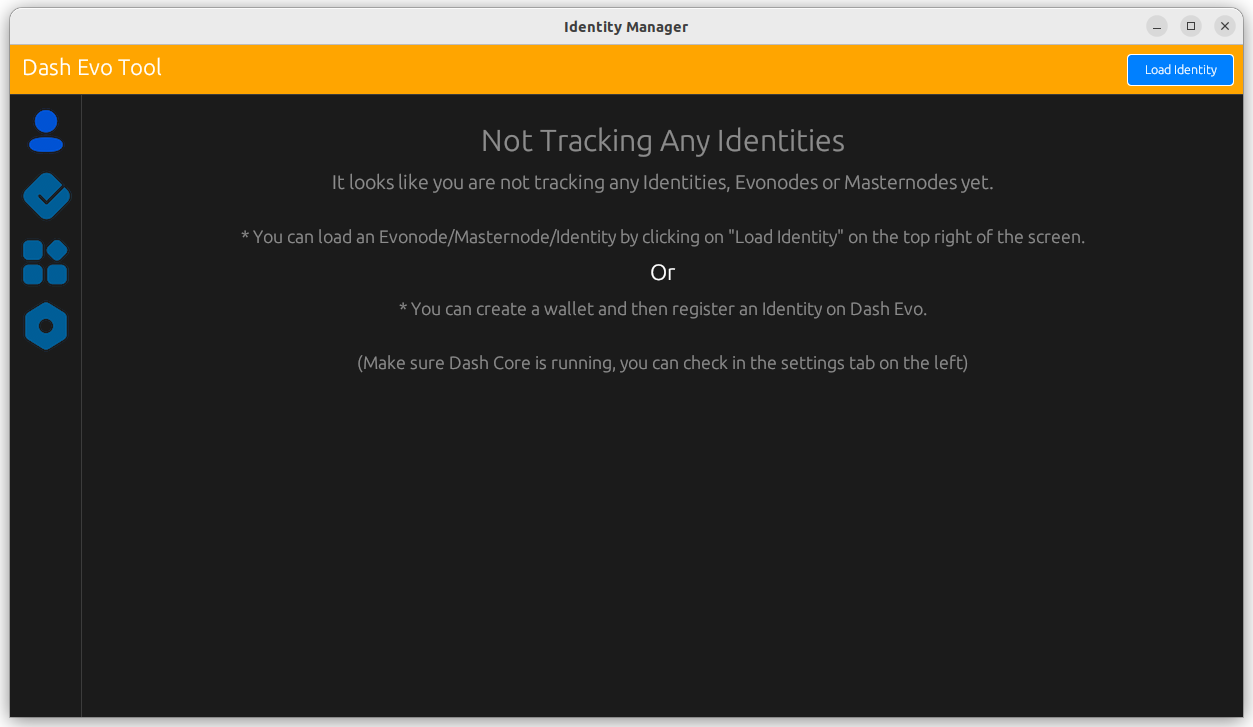
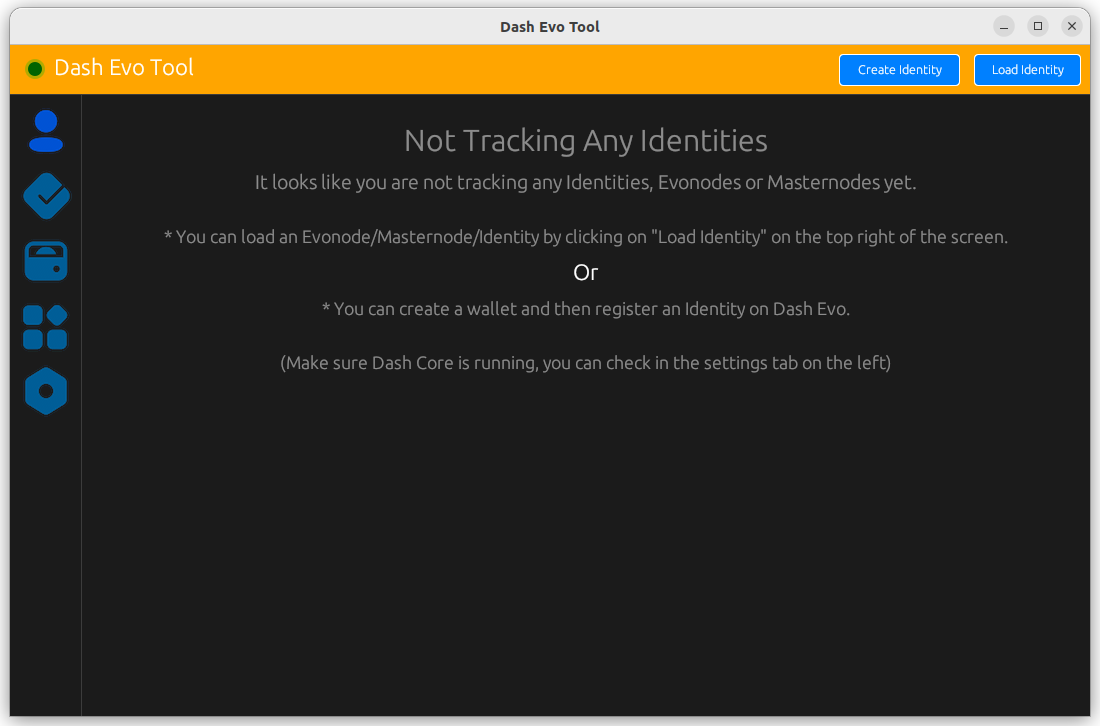
docs: add basic identity create info

diff --git a/docs/user/network/dash-evo-tool/index.rst b/docs/user/network/dash-evo-tool/index.rst
@@ -189,6 +189,54 @@ can also initiate :ref:`withdrawals <evo-tool-identity-evo-withdraw>`.
 
    Identity screen with an evonode identity loaded
 
+.. _evo-tool-identity-create:
+
+Create and identity
+-------------------
+
+On the main identity screen, click the **Create Identity** button on the upper right side of the
+screen.
+
+.. figure:: img/identity/main-empty.png
+   :align: center
+   :width: 90%
+
+   Identity screen with no loaded identities
+
+On the create identity screen, leave the first two options set to the default and select the funding
+method. Then, send the requested amount of DASH to the provided address.
+
+.. figure:: img/identity/create-await-funds.png
+   :align: center
+   :width: 90%
+
+   Waiting for funds
+
+The status will change from "Waiting for funds" to "Waiting for Platform acknowledgement" once the
+funds have been received and the identity registration process has started.
+
+.. figure:: img/identity/create-await-platform.png
+   :align: center
+   :width: 90%
+
+   Waiting for Platform acknowledgement
+
+Once the identity has been registered, you can choose to return to the identity screen or proceed to
+registering a name.
+
+.. figure:: img/identity/create-success.png
+   :align: center
+   :width: 90%
+
+   Identity creation success
+
+
+.. figure:: img/identity/main-new-identity.png
+   :align: center
+   :width: 90%
+
+   Identity screen with an identity loaded
+
 .. _evo-tool-identity-evo-withdraw:
 
 Evonode withdrawals
